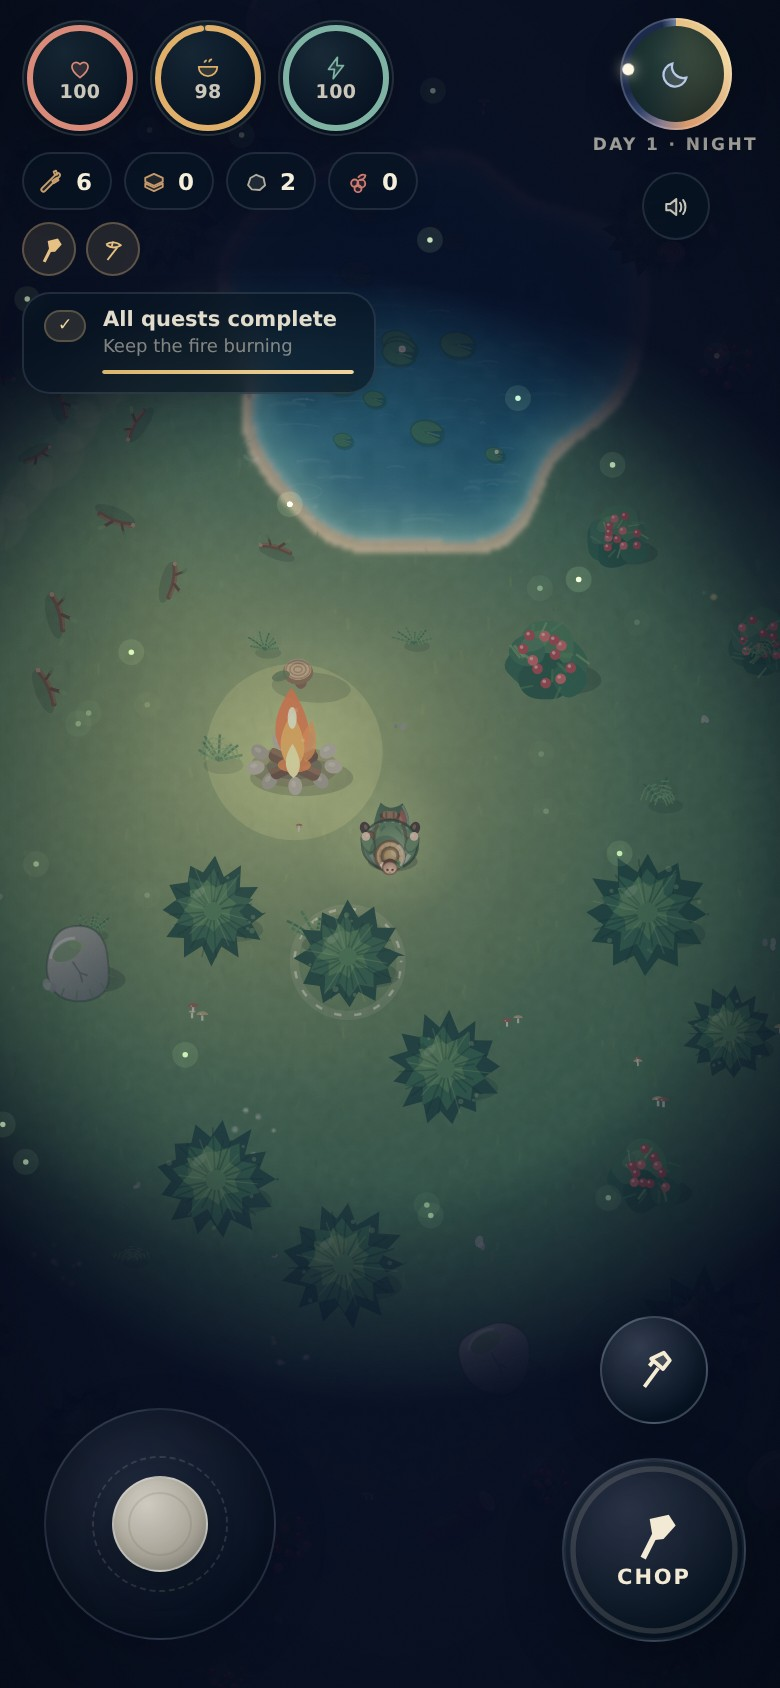
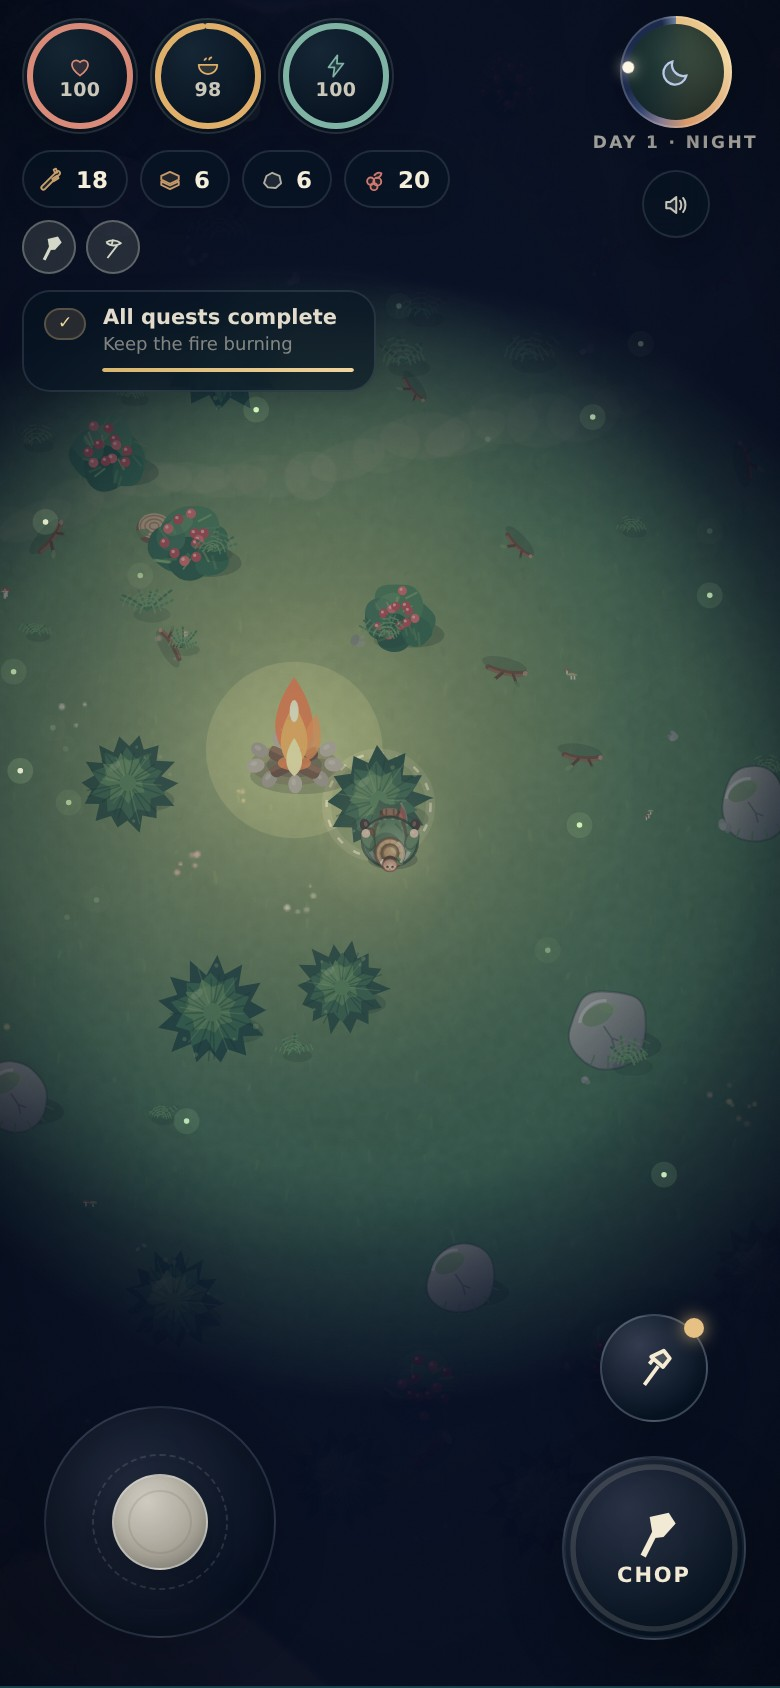
Publish static build for issue #35
Run: 44582502581
Attempt: 1
Generation: 2
Source: 5f1d59bc1036e3ae2d7a10c395a784dedf237e0d

diff --git a/js/game.js b/js/game.js
@@ -11,16 +11,33 @@ const DAY_LENGTH = 300;
 const START_TIME = 0.13;
 const GATHER_RING = 283;
 
+const TOOL_TIERS = {
+  woodaxe: ['axe', 1],
+  woodpick: ['pick', 1],
+  stoneaxe: ['axe', 2],
+  stonepick: ['pick', 2],
+};
+
 const RECIPES = [
   {
-    id: 'axe', name: 'Stone Axe', tag: 'Tool', icon: 'axe', once: true,
-    desc: 'Bind a sharp stone to a stick. Chop pines for wood.',
+    id: 'woodaxe', name: 'Wooden Axe', tag: 'Tool', icon: 'axe', once: true,
+    desc: 'A sharpened branch lashed to a handle. Chop pines for wood.',
     cost: { stick: 5 },
   },
   {
-    id: 'pick', name: 'Stone Pickaxe', tag: 'Tool', icon: 'pick', once: true,
-    desc: 'A stone head on a wooden handle. Break boulders for stone.',
+    id: 'woodpick', name: 'Wooden Pickaxe', tag: 'Tool', icon: 'pick', once: true,
+    desc: 'A hardwood point. Break boulders for stone.',
     cost: { wood: 8, stick: 3 },
+  },
+  {
+    id: 'stoneaxe', name: 'Stone Axe', tag: 'Upgrade', icon: 'axe', once: true,
+    desc: 'A stone edge bound to a stick. Chops faster and yields more wood.',
+    cost: { stick: 4, stone: 5 },
+  },
+  {
+    id: 'stonepick', name: 'Stone Pickaxe', tag: 'Upgrade', icon: 'pick', once: true,
+    desc: 'A stone head bound to a handle. Mines faster and yields more stone.',
+    cost: { stick: 4, stone: 5 },
   },
   {
     id: 'campfire', name: 'Campfire', tag: 'Light', icon: 'fire',
@@ -31,10 +48,12 @@ const RECIPES = [
 
 const QUESTS = [
   { id: 'sticks', title: 'Gather sticks', text: 'Pick up fallen branches', goal: 5 },
-  { id: 'axe', title: 'Craft an axe', text: 'Open the hammer tab', goal: 1 },
+  { id: 'woodaxe', title: 'Craft a wooden axe', text: 'Open the hammer tab', goal: 1 },
   { id: 'wood', title: 'Chop pines', text: 'Gather 8 wood with the axe', goal: 8 },
-  { id: 'pick', title: 'Craft a pickaxe', text: 'Use 8 wood and 3 sticks', goal: 1 },
-  { id: 'stone', title: 'Mine boulders', text: 'Gather 4 stone', goal: 4 },
+  { id: 'woodpick', title: 'Craft a wooden pickaxe', text: 'Use 8 wood and 3 sticks', goal: 1 },
+  { id: 'stone', title: 'Mine boulders', text: 'Gather 5 stone', goal: 5 },
+  { id: 'stoneaxe', title: 'Craft a stone axe', text: 'Use 4 sticks and 5 stone', goal: 1 },
+  { id: 'stonepick', title: 'Craft a stone pickaxe', text: 'Use 4 sticks and 5 stone', goal: 1 },
   { id: 'fire', title: 'Build a campfire', text: 'Craft it on open ground', goal: 1 },
 ];
 
@@ -90,7 +109,7 @@ const state = {
   inventory: { stick: 0, wood: 0, stone: 0, food: 0 },
   totals: { stick: 0, wood: 0, stone: 0, food: 0, fire: 0 },
   quest: { index: 0 },
-  tools: { axe: false, pick: false },
+  tools: { axe: 0, pick: 0 },
   survival: { health: 100, hunger: 100, stamina: 100 },
   target: null,
   actionHeld: false,
@@ -129,7 +148,7 @@ inventoryEl.innerHTML = `
 const recipesEl = $('recipes');
 recipesEl.innerHTML = RECIPES.map((r) => `
   <article class="recipe" data-recipe="${r.id}">
-    <div class="recipe-icon"><svg class="${r.icon === 'axe' ? 'solid-icon' : ''}" aria-hidden="true"><use href="#icon-${r.icon}"></use></svg></div>
+    <div class="recipe-icon${r.tag === 'Upgrade' ? ' stone' : ''}"><svg class="${r.icon === 'axe' ? 'solid-icon' : ''}" aria-hidden="true"><use href="#icon-${r.icon}"></use></svg></div>
     <div class="recipe-body">
       <h3>${r.name} <span class="recipe-tag">${r.tag}</span></h3>
       <p>${r.desc}</p>
@@ -242,7 +261,9 @@ function canAfford(recipe) {
 }
 
 function isOwned(recipe) {
-  return !!(recipe.once && state.tools[recipe.id]);
+  const tier = TOOL_TIERS[recipe.id];
+  if (!tier) return false;
+  return state.tools[tier[0]] >= tier[1];
 }
 
 function spend(cost) {
@@ -259,19 +280,28 @@ function phaseFor(time) {
   return { name: 'Dawn', night: true };
 }
 
+function toolLevelFor(kind) {
+  if (kind === 'tree') return state.tools.axe;
+  if (kind === 'rock') return state.tools.pick;
+  return 0;
+}
+
 function gatherDuration(o) {
   let d = RESOURCE_META[o.kind].duration;
-  if (o.kind === 'tree' && state.tools.axe) d *= 0.7;
-  if (o.kind === 'rock' && state.tools.pick) d *= 0.7;
+  const level = toolLevelFor(o.kind);
+  if (level >= 2) d *= 0.55;
+  else if (level >= 1) d *= 0.7;
   return d;
 }
 
 function questProgress(q) {
   if (q.id === 'sticks') return state.totals.stick;
-  if (q.id === 'axe') return state.tools.axe ? 1 : 0;
+  if (q.id === 'woodaxe') return state.tools.axe >= 1 ? 1 : 0;
   if (q.id === 'wood') return state.totals.wood;
-  if (q.id === 'pick') return state.tools.pick ? 1 : 0;
+  if (q.id === 'woodpick') return state.tools.pick >= 1 ? 1 : 0;
   if (q.id === 'stone') return state.totals.stone;
+  if (q.id === 'stoneaxe') return state.tools.axe >= 2 ? 1 : 0;
+  if (q.id === 'stonepick') return state.tools.pick >= 2 ? 1 : 0;
   if (q.id === 'fire') return state.totals.fire;
   return 0;
 }
@@ -335,12 +365,18 @@ function updateHud(force = false) {
   $('count-food').textContent = String(state.inventory.food);
   foodChip.classList.toggle('urgent', s.hunger < 34 && state.inventory.food > 0);
 
-  const toolKey = `${state.tools.axe ? 1 : 0}${state.tools.pick ? 1 : 0}`;
+  const toolKey = `${state.tools.axe}${state.tools.pick}`;
   if (toolKey !== state.lastToolsKey) {
     state.lastToolsKey = toolKey;
     let html = '';
-    if (state.tools.axe) html += '<span class="tool-badge" title="Stone Axe"><svg class="solid-icon" aria-hidden="true"><use href="#icon-axe"></use></svg></span>';
-    if (state.tools.pick) html += '<span class="tool-badge" title="Stone Pick"><svg aria-hidden="true"><use href="#icon-pick"></use></svg></span>';
+    if (state.tools.axe) {
+      const stone = state.tools.axe >= 2;
+      html += `<span class="tool-badge${stone ? ' stone' : ''}" title="${stone ? 'Stone Axe' : 'Wooden Axe'}"><svg class="solid-icon" aria-hidden="true"><use href="#icon-axe"></use></svg></span>`;
+    }
+    if (state.tools.pick) {
+      const stone = state.tools.pick >= 2;
+      html += `<span class="tool-badge${stone ? ' stone' : ''}" title="${stone ? 'Stone Pickaxe' : 'Wooden Pickaxe'}"><svg aria-hidden="true"><use href="#icon-pick"></use></svg></span>`;
+    }
     toolBadgesEl.innerHTML = html;
   }
 
@@ -649,11 +685,17 @@ function craft(id) {
     closeSheet();
   } else {
     spend(recipe.cost);
-    state.tools[id] = true;
+    const tier = TOOL_TIERS[id];
+    if (tier) state.tools[tier[0]] = Math.max(state.tools[tier[0]], tier[1]);
     sound.craft();
     haptic(10);
     addFloater(recipe.name, p.x, p.y - 32, '#f3d69b');
-    const msg = id === 'axe' ? 'Pines can now be chopped for wood.' : 'Boulders can now be mined for stone.';
+    const msg = {
+      woodaxe: 'Pines can now be chopped for wood.',
+      woodpick: 'Boulders can now be mined for stone.',
+      stoneaxe: 'Pines fall faster and give more wood.',
+      stonepick: 'Boulders break faster and give more stone.',
+    }[id] || '';
     showToast(`Crafted <b>${recipe.name}</b>. ${msg}`, 3200);
     showSheetNotice(`Crafted ${recipe.name}. ${msg}`, 'ok');
   }
@@ -896,7 +938,7 @@ function updateLockedHints() {
       if (o.kind !== 'tree' || !o.ready) continue;
       if (Math.hypot(o.x - p.x, o.y - p.y) < 118) {
         state.hints.axe = true;
-        showToast('Pines need an axe. Gather sticks and craft one.', 3400);
+        showToast('Pines need a wooden axe. Gather sticks and craft one.', 3400);
         break;
       }
     }
@@ -906,7 +948,7 @@ function updateLockedHints() {
       if (o.kind !== 'rock' || !o.ready) continue;
       if (Math.hypot(o.x - p.x, o.y - p.y) < 118) {
         state.hints.pick = true;
-        showToast('Boulders need a pickaxe. Chop pines for wood first.', 3400);
+        showToast('Boulders need a wooden pickaxe. Chop pines for wood first.', 3400);
         break;
       }
     }
@@ -945,8 +987,8 @@ function resolveCollisions() {
 
 function completeGather(o) {
   const meta = RESOURCE_META[o.kind];
-  const tooled = (o.kind === 'tree' && state.tools.axe) || (o.kind === 'rock' && state.tools.pick);
-  const amount = tooled ? 2 : 1;
+  const level = toolLevelFor(o.kind);
+  const amount = level >= 2 ? 3 : level >= 1 ? 2 : 1;
   state.inventory[meta.resource] += amount;
   state.totals[meta.resource] = (state.totals[meta.resource] || 0) + amount;
   o.hits -= 1;

diff --git a/styles.css b/styles.css
@@ -73,6 +73,7 @@ button.res-chip:active{transform:scale(.93)}
   animation:badgeIn .4s cubic-bezier(.2,.9,.3,1.3)}
 .tool-badges{display:flex;align-items:center;gap:5px;flex-wrap:wrap}
 .tool-badge svg{width:14px;height:14px;fill:currentColor;fill-opacity:.1;stroke:currentColor;stroke-width:1.6;stroke-linejoin:round}
+.tool-badge.stone{background:rgba(184,190,174,.16);border-color:rgba(206,212,196,.34);color:#d3d8c8}
 
 .quest-card{display:flex;align-items:flex-start;gap:8px;width:max-content;max-width:246px;padding:7px 10px 9px;border-radius:14px;
   background:rgba(13,36,32,.54);border:1px solid rgba(245,238,219,.12);
@@ -219,6 +220,8 @@ button.res-chip:active{transform:scale(.93)}
   background:radial-gradient(circle at 36% 28%,rgba(231,193,132,.2),rgba(231,193,132,.05) 75%);
   border:1px solid rgba(231,193,132,.18);color:var(--gold)}
 .recipe-icon svg{width:25px;height:25px;fill:currentColor;fill-opacity:.12;stroke:currentColor;stroke-width:1.5;stroke-linejoin:round}
+.recipe-icon.stone{background:radial-gradient(circle at 36% 28%,rgba(198,204,188,.22),rgba(198,204,188,.05) 75%);
+  border-color:rgba(206,212,196,.24);color:#cfd5c4}
 .recipe-body{min-width:0}
 .recipe h3{margin:0;font-size:13.5px;font-weight:800;letter-spacing:.01em;color:#f5eedb;display:flex;align-items:center;gap:6px;flex-wrap:wrap}
 .recipe-tag{font-size:8px;font-weight:800;letter-spacing:.12em;text-transform:uppercase;color:rgba(245,238,219,.5);

diff --git a/js/world.js b/js/world.js
@@ -48,7 +48,7 @@ export const RESOURCE_META = {
     resource: 'stick',
     resourceName: 'Stick',
     duration: 0.38,
-    respawn: 0,
+    respawn: 60,
     hits: 1,
     reach: 70,
     radius: 6,
@@ -558,9 +558,9 @@ export function createWorld(seed = (Math.random() * 1e9) | 0) {
 
   // fallen sticks scattered through the clearing — the first tools come from these
   let sticksPlaced = 0;
-  for (let i = 0; i < 160 && sticksPlaced < 28; i++) {
+  for (let i = 0; i < 160 && sticksPlaced < 12; i++) {
     const a = rand() * TAU;
-    const d = 42 + Math.pow(rand(), 1.2) * 300;
+    const d = 50 + Math.pow(rand(), 1.2) * 300;
     const x = center.x + Math.cos(a) * d;
     const y = center.y + Math.sin(a) * d;
     if (!isLand(x, y, 0.06)) continue;
